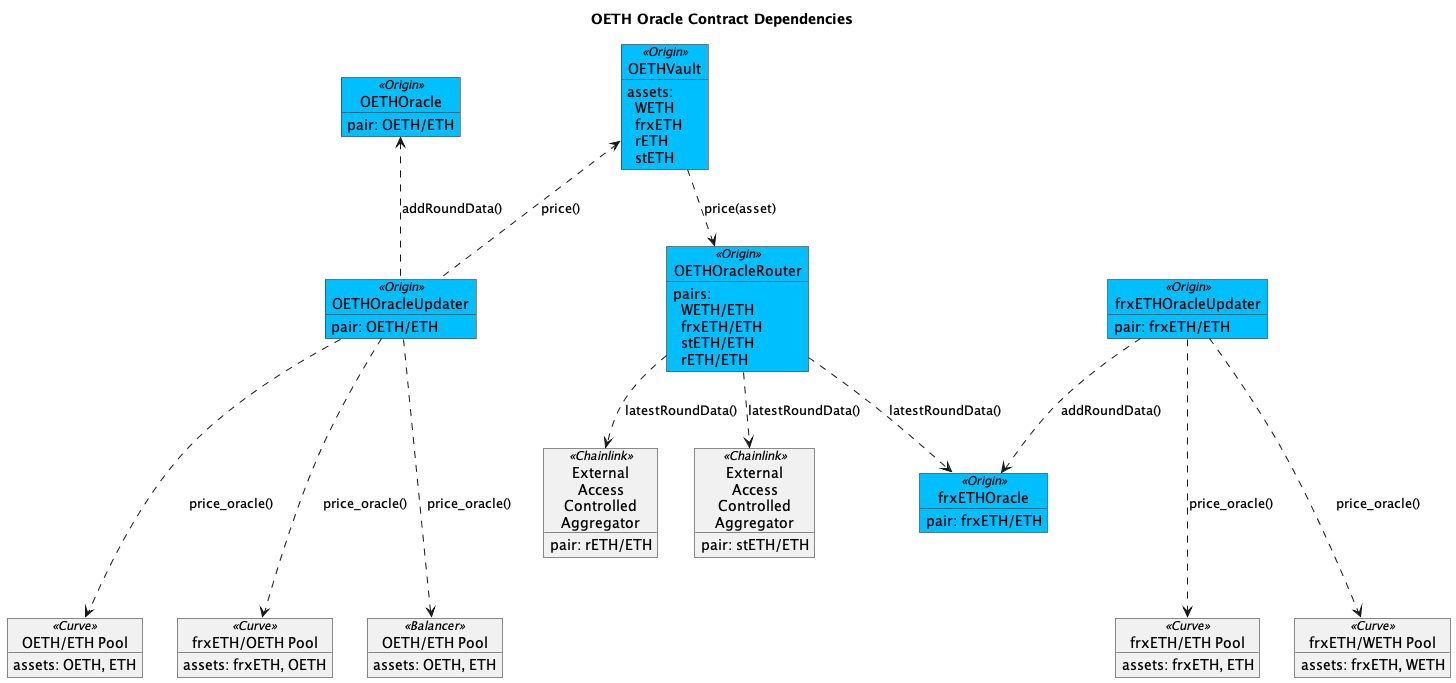
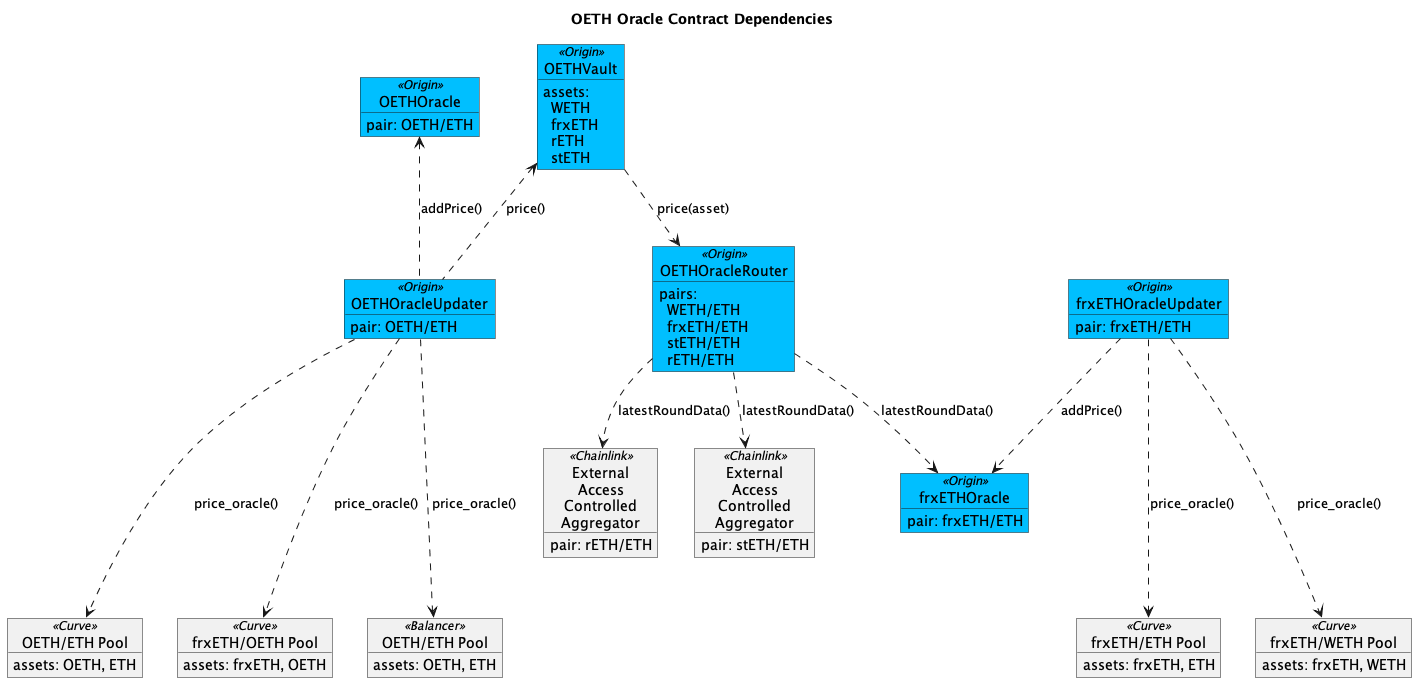
Refactor OETH Oracle

diff --git a/contracts/test/oracle/oracle.fork-test.js b/contracts/test/oracle/oracle.fork-test.js
@@ -61,9 +61,11 @@ forkOnlyDescribe("ForkTest: Oracles", function () {
   });
   describe("OETH Oracle", () => {
     it("Should add new OETH Oracle price", async () => {
-      const { josh, oethOracle, oethOracleUpdater } = fixture;
+      const { oethOracle, oethOracleUpdater } = fixture;
 
-      await oethOracleUpdater.addRoundData(oethOracle.address);
+      const tx = await oethOracleUpdater.addPrice(oethOracle.address);
+
+      await expect(tx).to.emit(oethOracleUpdater, "AddPrice");
 
       const data = await oethOracle.latestRoundData();
       log(`OETH price: ${formatUnits(data.answer, 18)}`);
@@ -71,20 +73,28 @@ forkOnlyDescribe("ForkTest: Oracles", function () {
       expect(data.answer).to.be.gte(parseUnits("0.99"));
       expect(data.answer).to.be.lte(parseUnits("1.01"));
       expect(data.roundId).to.be.eq(0);
+    });
+    it("Should get gas usage of latestRoundData", async () => {
+      const { josh, oethOracle, oethOracleUpdater } = fixture;
+
+      await oethOracleUpdater.addPrice(oethOracle.address);
 
       // This uses a transaction to call a view function so the gas usage can be reported.
-      const tx = await oethOracle
+      const tx2 = await oethOracle
         .connect(josh)
         .populateTransaction.latestRoundData();
-      await josh.sendTransaction(tx);
+      await josh.sendTransaction(tx2);
     });
     it("Should add OETH Oracle price twice", async () => {
       const { oethOracle, oethOracleUpdater } = fixture;
 
-      await oethOracleUpdater.addRoundData(oethOracle.address);
-      await oethOracleUpdater.addRoundData(oethOracle.address);
+      await oethOracleUpdater.addPrice(oethOracle.address);
+      await oethOracleUpdater.addPrice(oethOracle.address);
 
       const data = await oethOracle.latestRoundData();
+      log(`Oracle price: ${formatUnits(data.answer, 18)}`);
+      log(`Oracle round: ${data.roundId}`);
+      log(`Oracle answeredInRound: ${data.answeredInRound}`);
       expect(data.roundId).to.be.eq(1);
     });
   });

diff --git a/contracts/deploy/076_oeth_vault_upgrade.js b/contracts/deploy/076_oeth_vault_upgrade.js
@@ -34,7 +34,6 @@ module.exports = deploymentWithGovernanceProposal(
     );
     const dOETHOracle = await deployWithConfirmation("OETHOracle", [
       dOETHOracleUpdater.address,
-      86400,
     ]);
     const cOETHOracle = await ethers.getContractAt(
       "OETHOracleUpdater",
